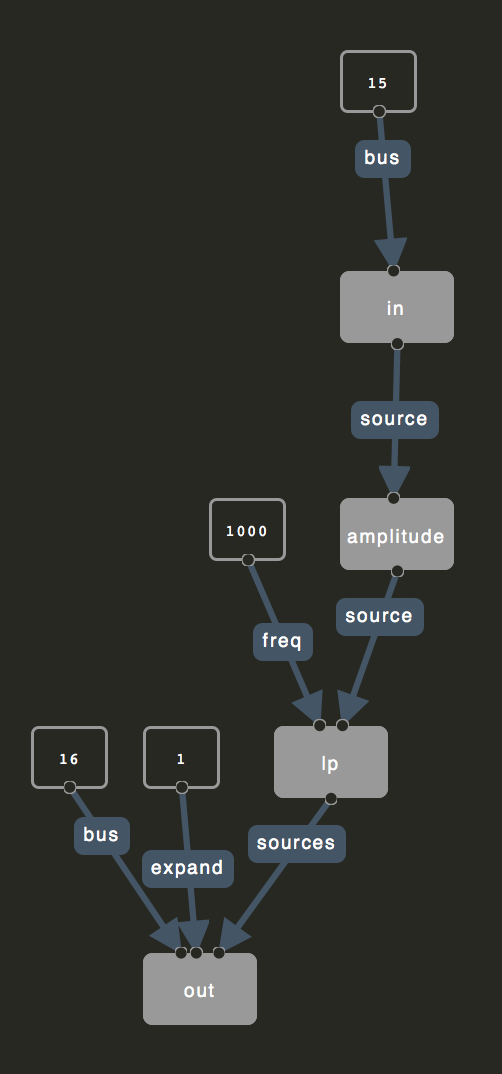
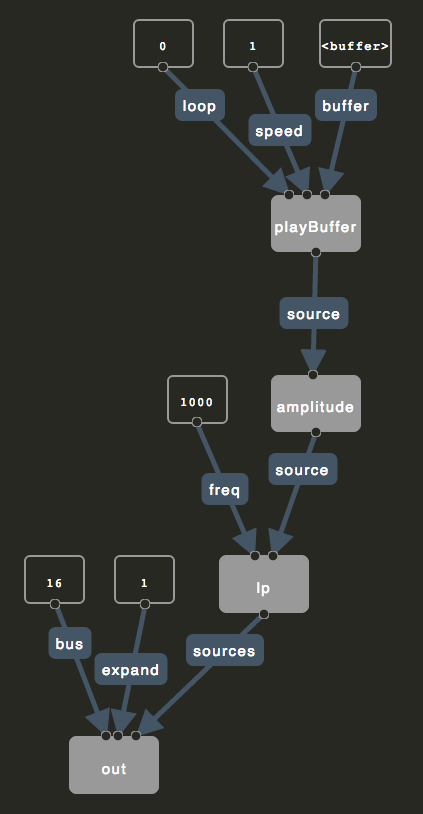
Updates Font Magica source code example and graphic.

Changed region(s): [[0.0307, 0.0307, 0.9527, 0.9828], [0.3073, 0.0307, 0.3381, 0.0921]]

diff --git a/sections/06-vibrant-bodies.md b/sections/06-vibrant-bodies.md
@@ -55,9 +55,9 @@ Programs made with Flocking and Aconite are data, not just code. This means, in 
 Like Amy Twigger-Holroyd's spectrum of treatments for knitted objects, merging and other data processing strategies in Flocking provide a means to materially transform the nature and logic of a program, allowing its capacities and energies to be changed, re-channeled, or vectorized into new artistic forms. Notably, this "graftability" of my software can increasingly be applied at any point in the creative life of a program, from its inception as source code right up to the runtime manifestation of a program<sup>12</sup>.
 
     {
-        buffer: "chopin-left",
-        speed: 1.0,
-        loop: 0.0,
+        "buffer": "chopin-left",
+        "speed": 1.0,
+        "loop": 0.0,
 
         "synthDef": {
             "ugen": "flock.ugen.out",
@@ -70,10 +70,10 @@ Like Amy Twigger-Holroyd's spectrum of treatments for knitted objects, merging a
                     "id": "volume-tracker",
                     "ugen": "flock.ugen.amplitude",
                     "source": {
-                        ugen: "flock.ugen.playBuffer",
-                        loop: "{that}.options.loop",
-                        speed: "{that}.options.speed",
-                        buffer: "{that}.options.buffer"
+                        "ugen": "flock.ugen.playBuffer",
+                        "loop": "{that}.options.loop",
+                        "speed": "{that}.options.speed",
+                        "buffer": "{that}.options.buffer"
                     }
                 }
             }
